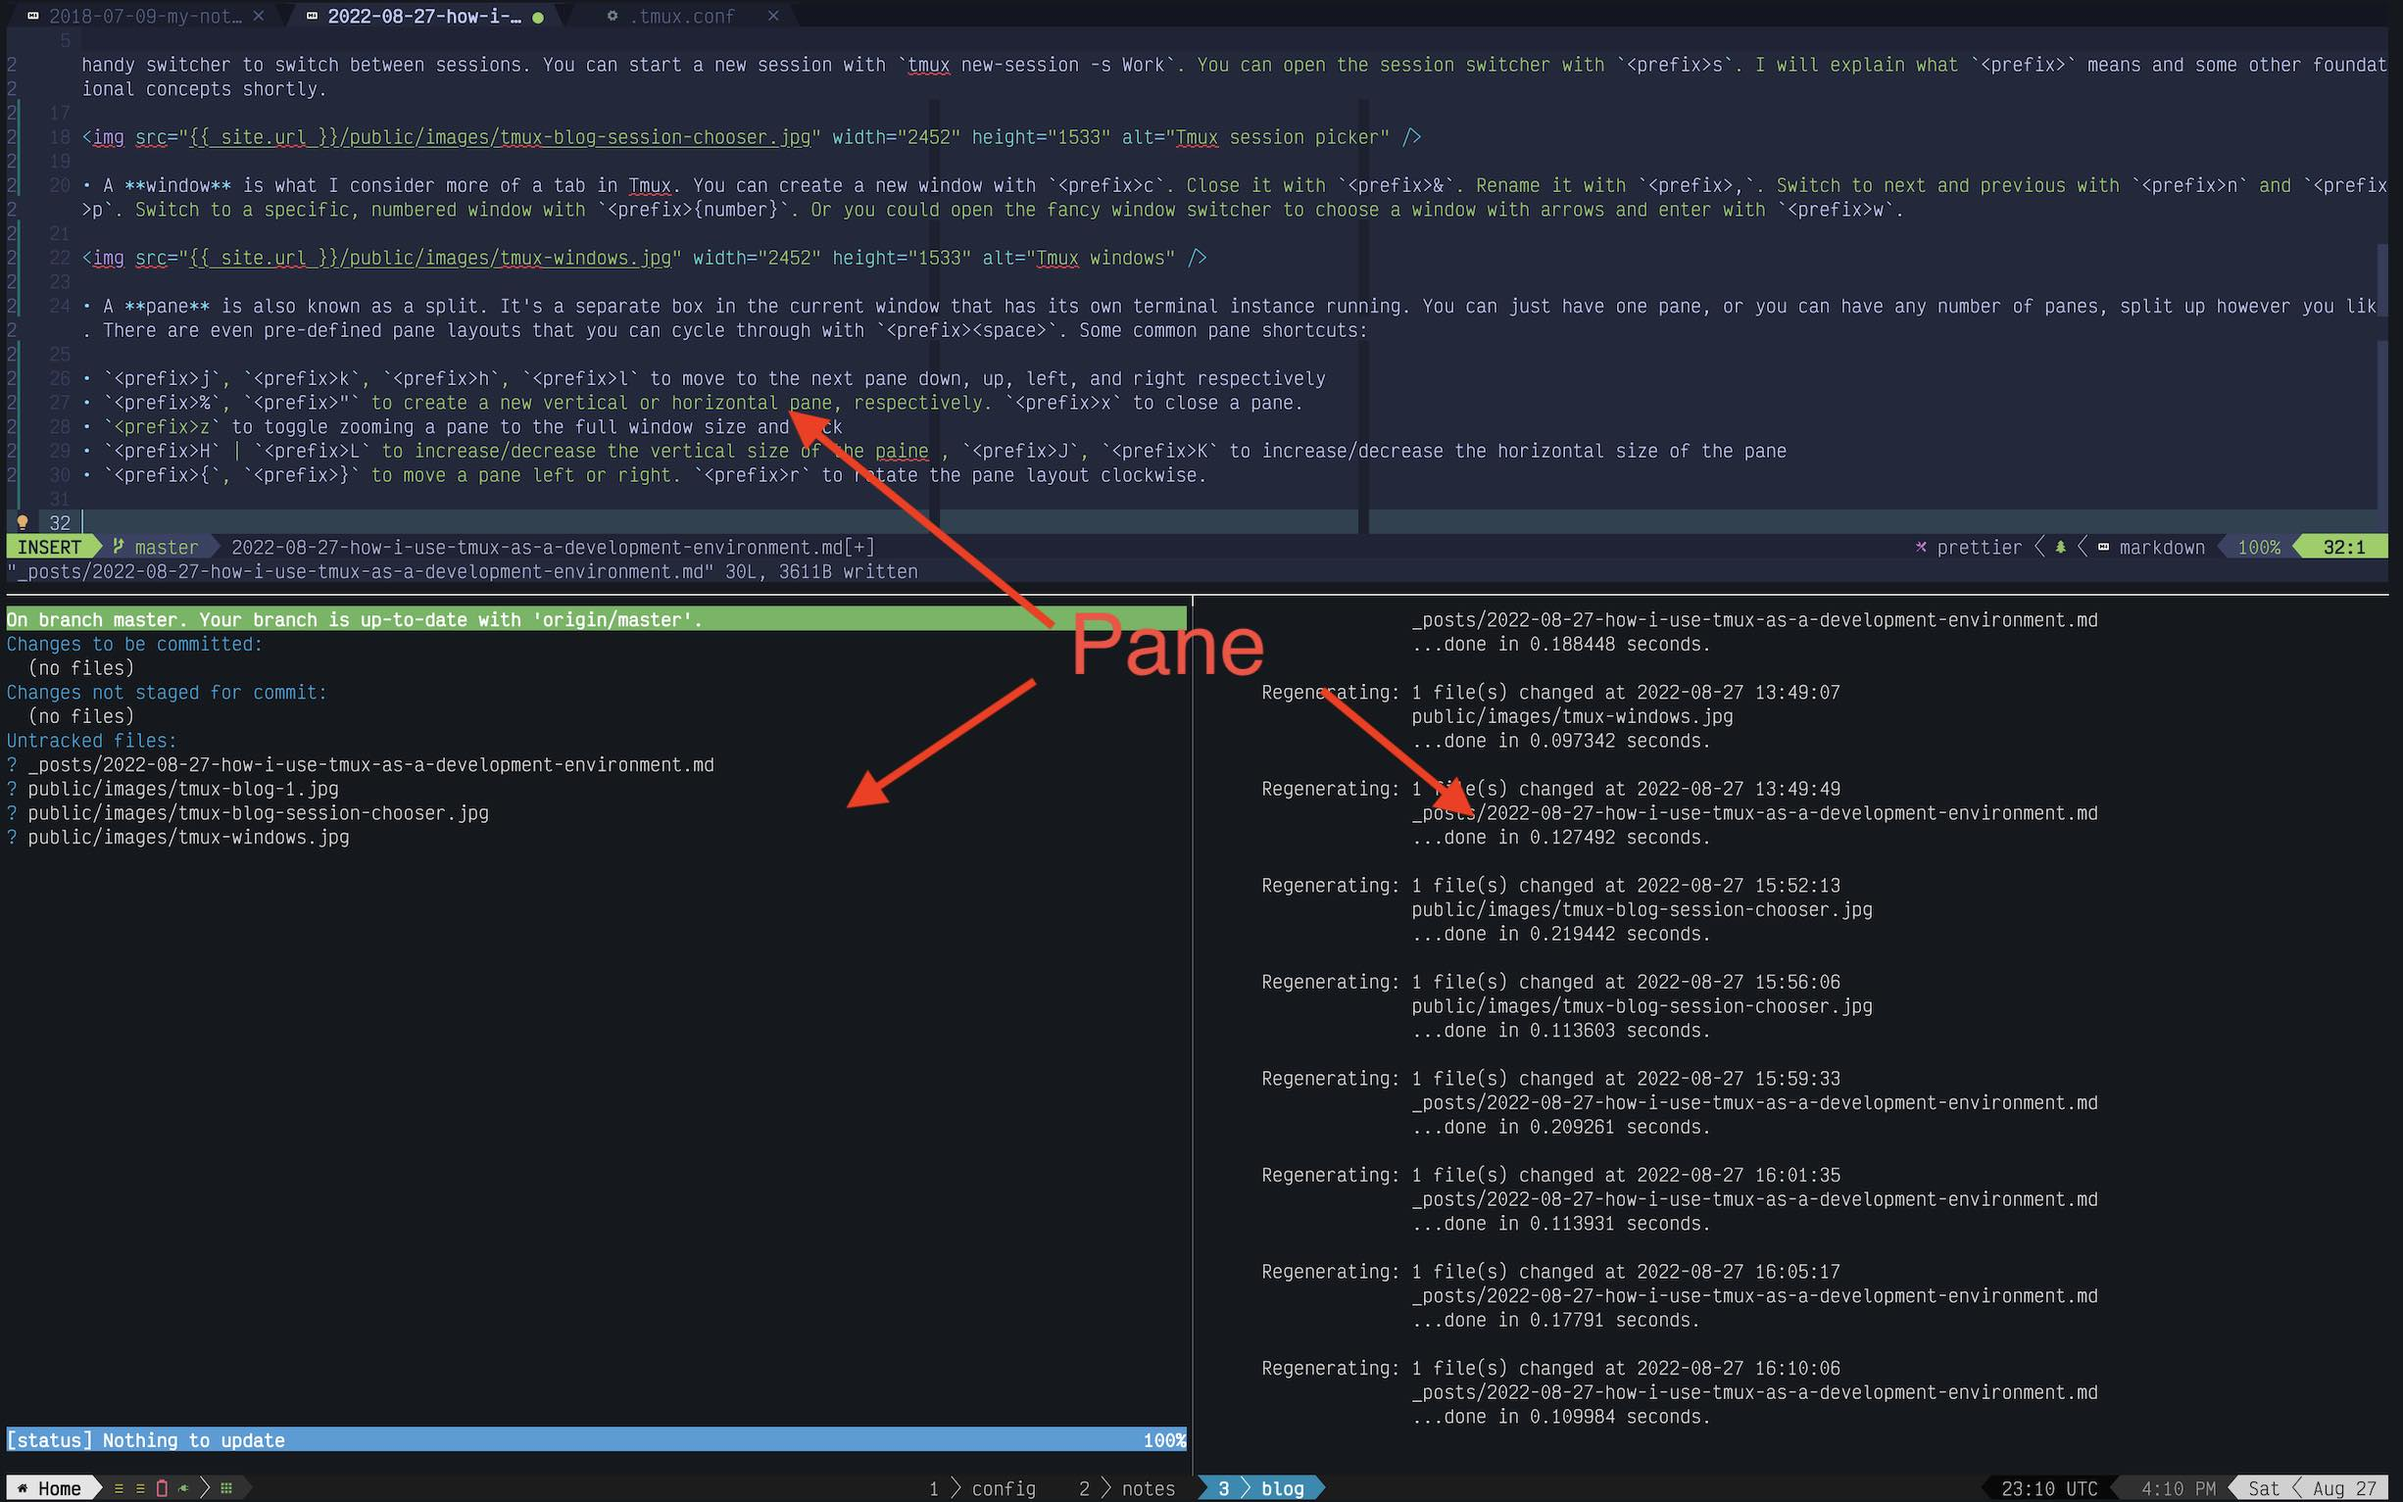
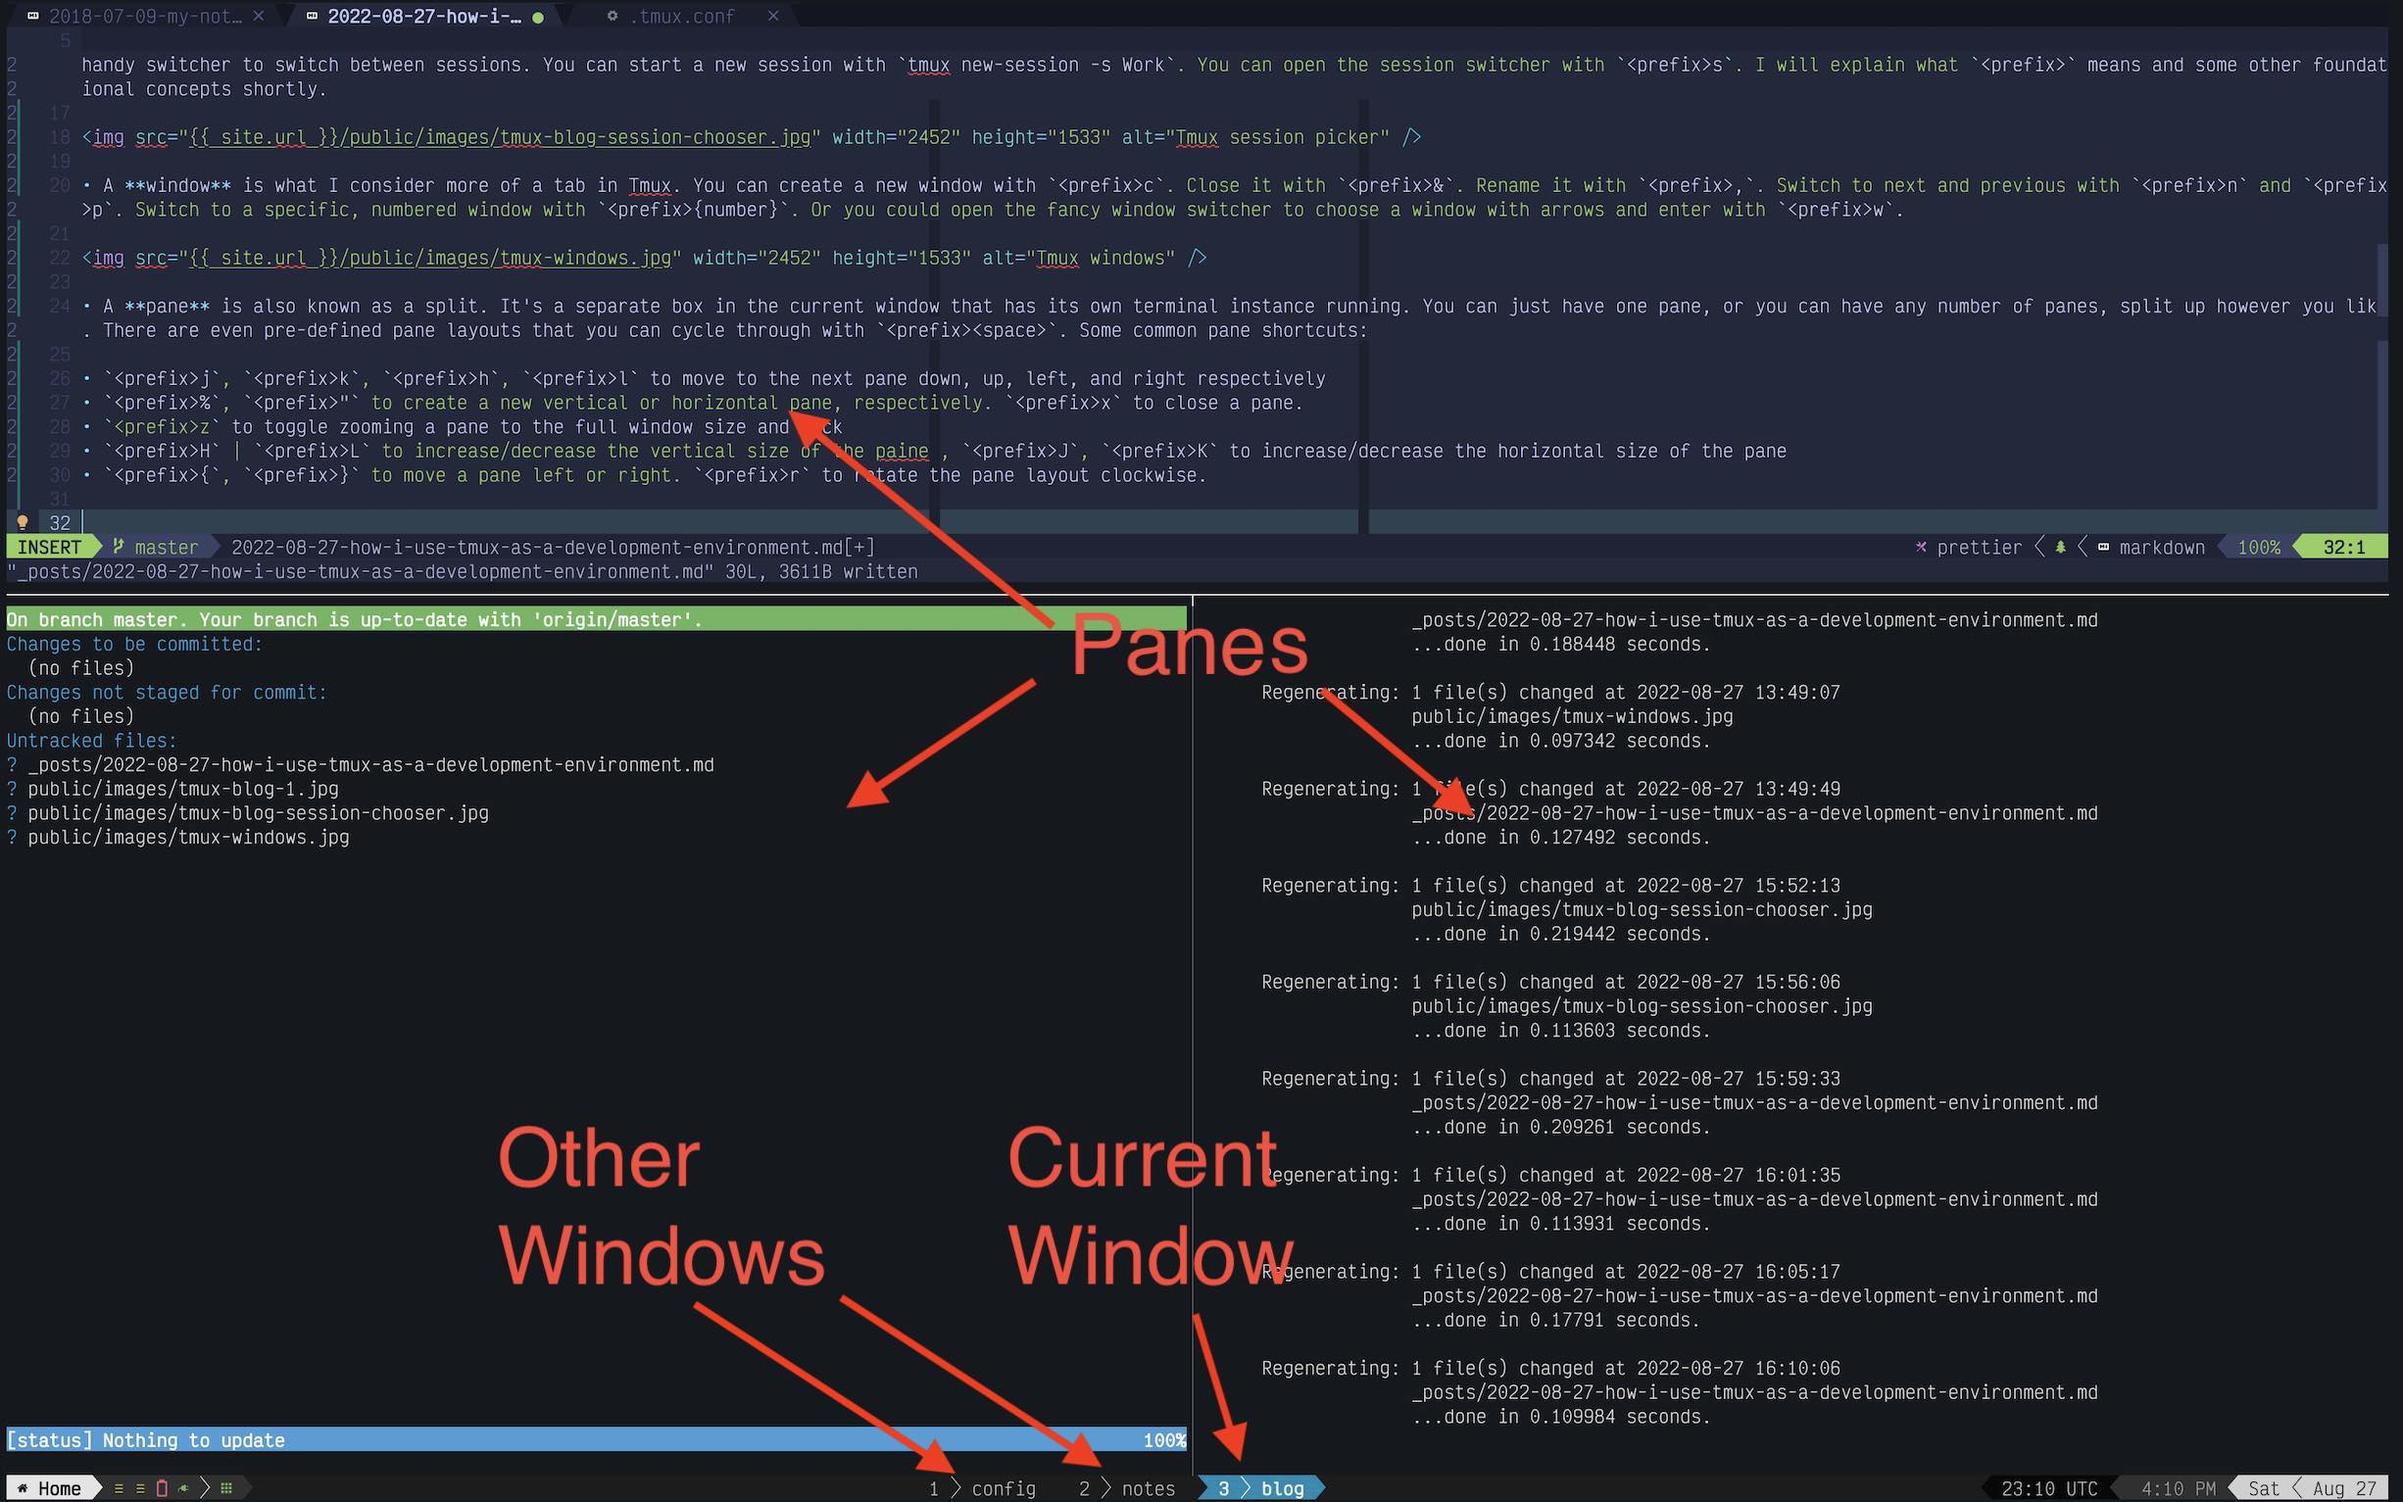
Update tmux blog post

diff --git a/_posts/2022-08-27-how-i-use-tmux-as-a-development-environment.md b/_posts/2022-08-27-how-i-use-tmux-as-a-development-environment.md
@@ -31,7 +31,7 @@ A **session** is a top-level context. I think of it like the company I'm working
 
 A **window** is what I consider more of a tab in Tmux. I put everything related to one _codebase_ or _context_ in a window.
 
-<img src="{{ site.url }}/public/images/tmux-windows.jpg" width="2452" height="1533" alt="Tmux windows" />
+<img src="{{ site.url }}/public/images/tmux-panes.jpg" width="2452" height="1533" alt="Tmux windows and panes" />
 
 For example, I use a [blog](https://github.com/mikedfunk/mikedfunk.github.io) codebase window with a Neovim pane, a [Tig](https://github.com/jonas/tig) pane for git operations, and a pane to run [Jekyll](https://github.com/jekyll/jekyll) to preview and generate my blog on save.
 
@@ -54,8 +54,6 @@ You can create a new window with `<prefix>c`. Close it with `<prefix>&`. Rename 
 
 A **pane** is also known as a split. It's a separate box in the current window that has its own shell running (e.g. bash or zsh). You can just have one pane, or you can have any number of panes, split up however you like.
 
-<img src="{{ site.url }}/public/images/tmux-panes.jpg" width="2452" height="1533" alt="Tmux panes" />
-
 There are even pre-defined pane layouts that you can cycle through with `<prefix><space>`. Some common pane shortcuts:
 
 - `<prefix><down>`, `<prefix><up>`, `<prefix><left>`, `<prefix><right>` to move to the next pane in that direction
@@ -66,7 +64,7 @@ There are even pre-defined pane layouts that you can cycle through with `<prefix
 
 Some other useful panes I run for some codebases:
 
-- automatically run tests on save with [entr](https://github.com/clibs/entr). Jump to that pane to filter to a specific file or test. Send desktop notifications with [noti](https://github.com/variadico/noti) on success or failure.
+- Automatically run tests on save with [entr](https://github.com/clibs/entr). Jump to that pane to filter to a specific file or test. Send desktop notifications with [noti](https://github.com/variadico/noti) on success or failure.
 - Open a persistent REPL for that codebase inside a running Docker container. If the container is down, keep trying to open the REPL until it's running.
 - Monitor logs for that codebase with [multitail](https://github.com/halturin/multitail) This lets me combine multiple log sources and add custom regex-based coloring to the log output.
 
